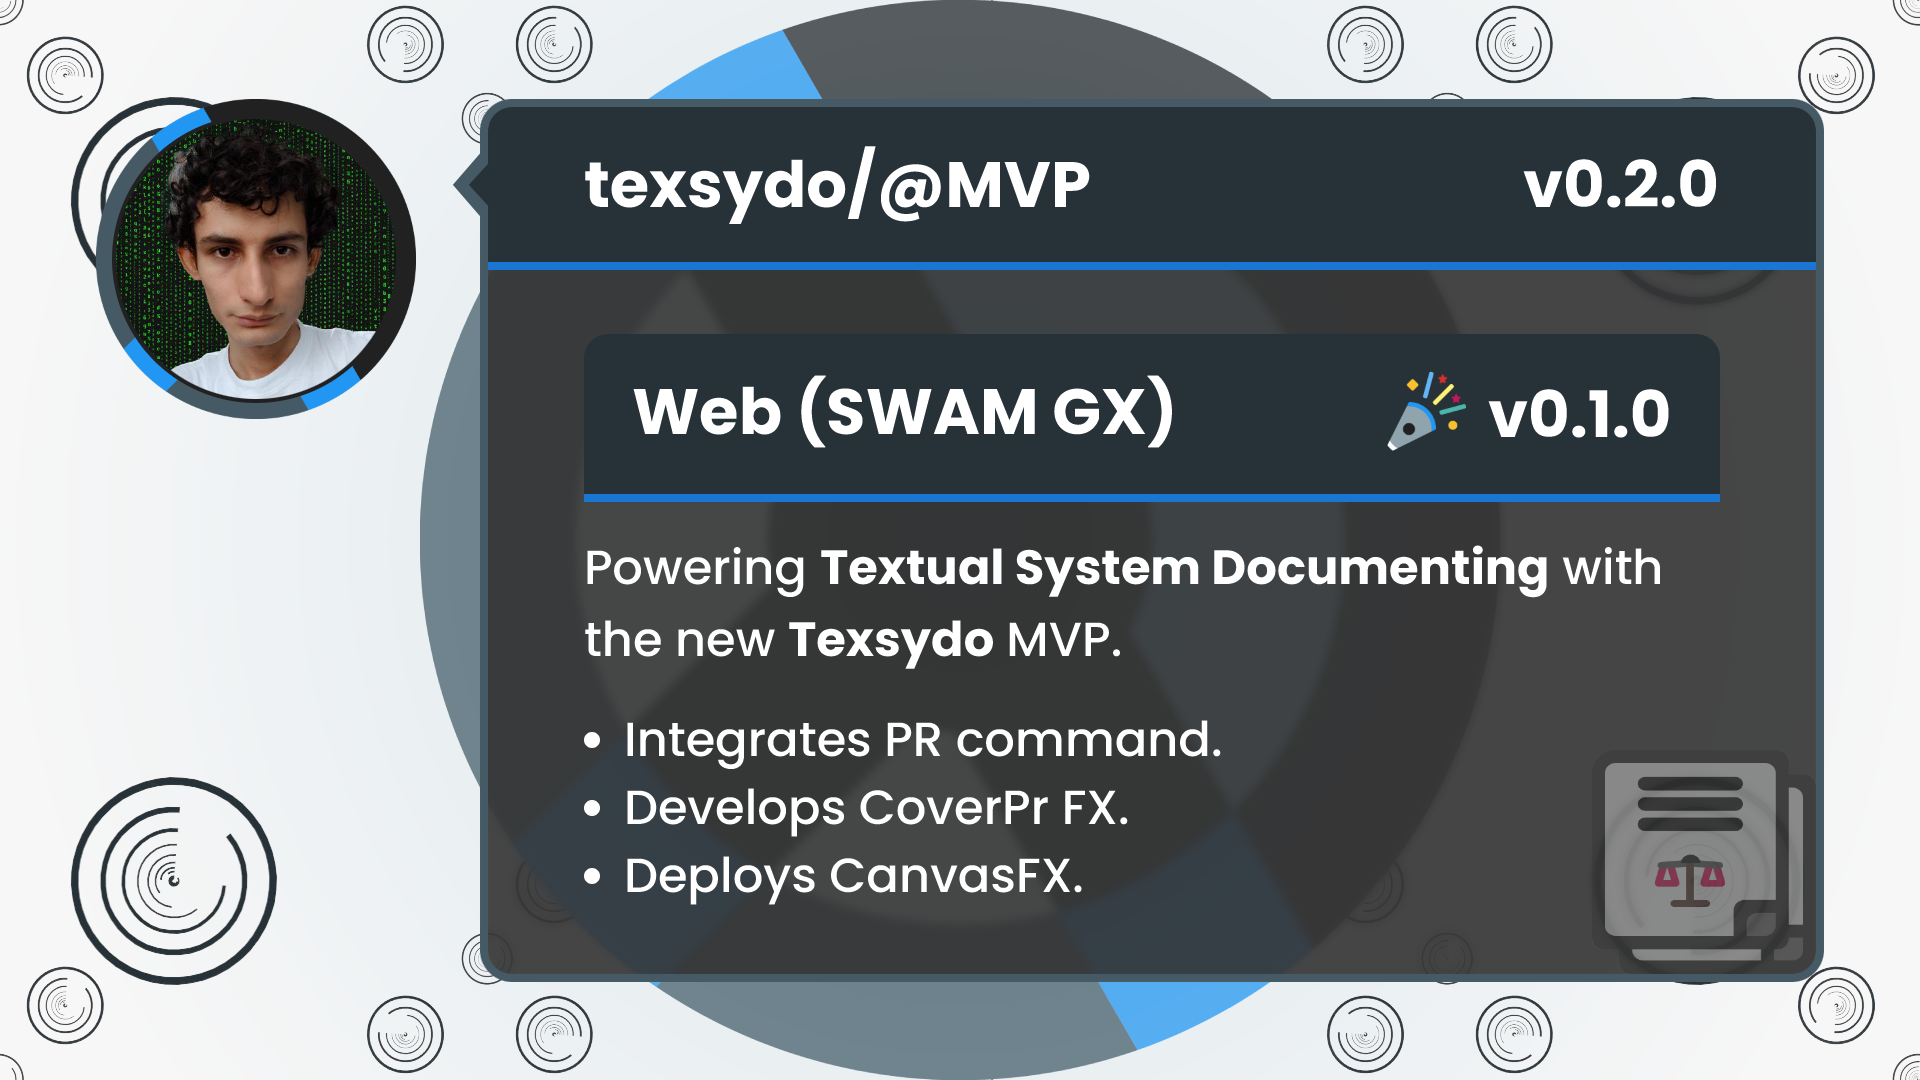
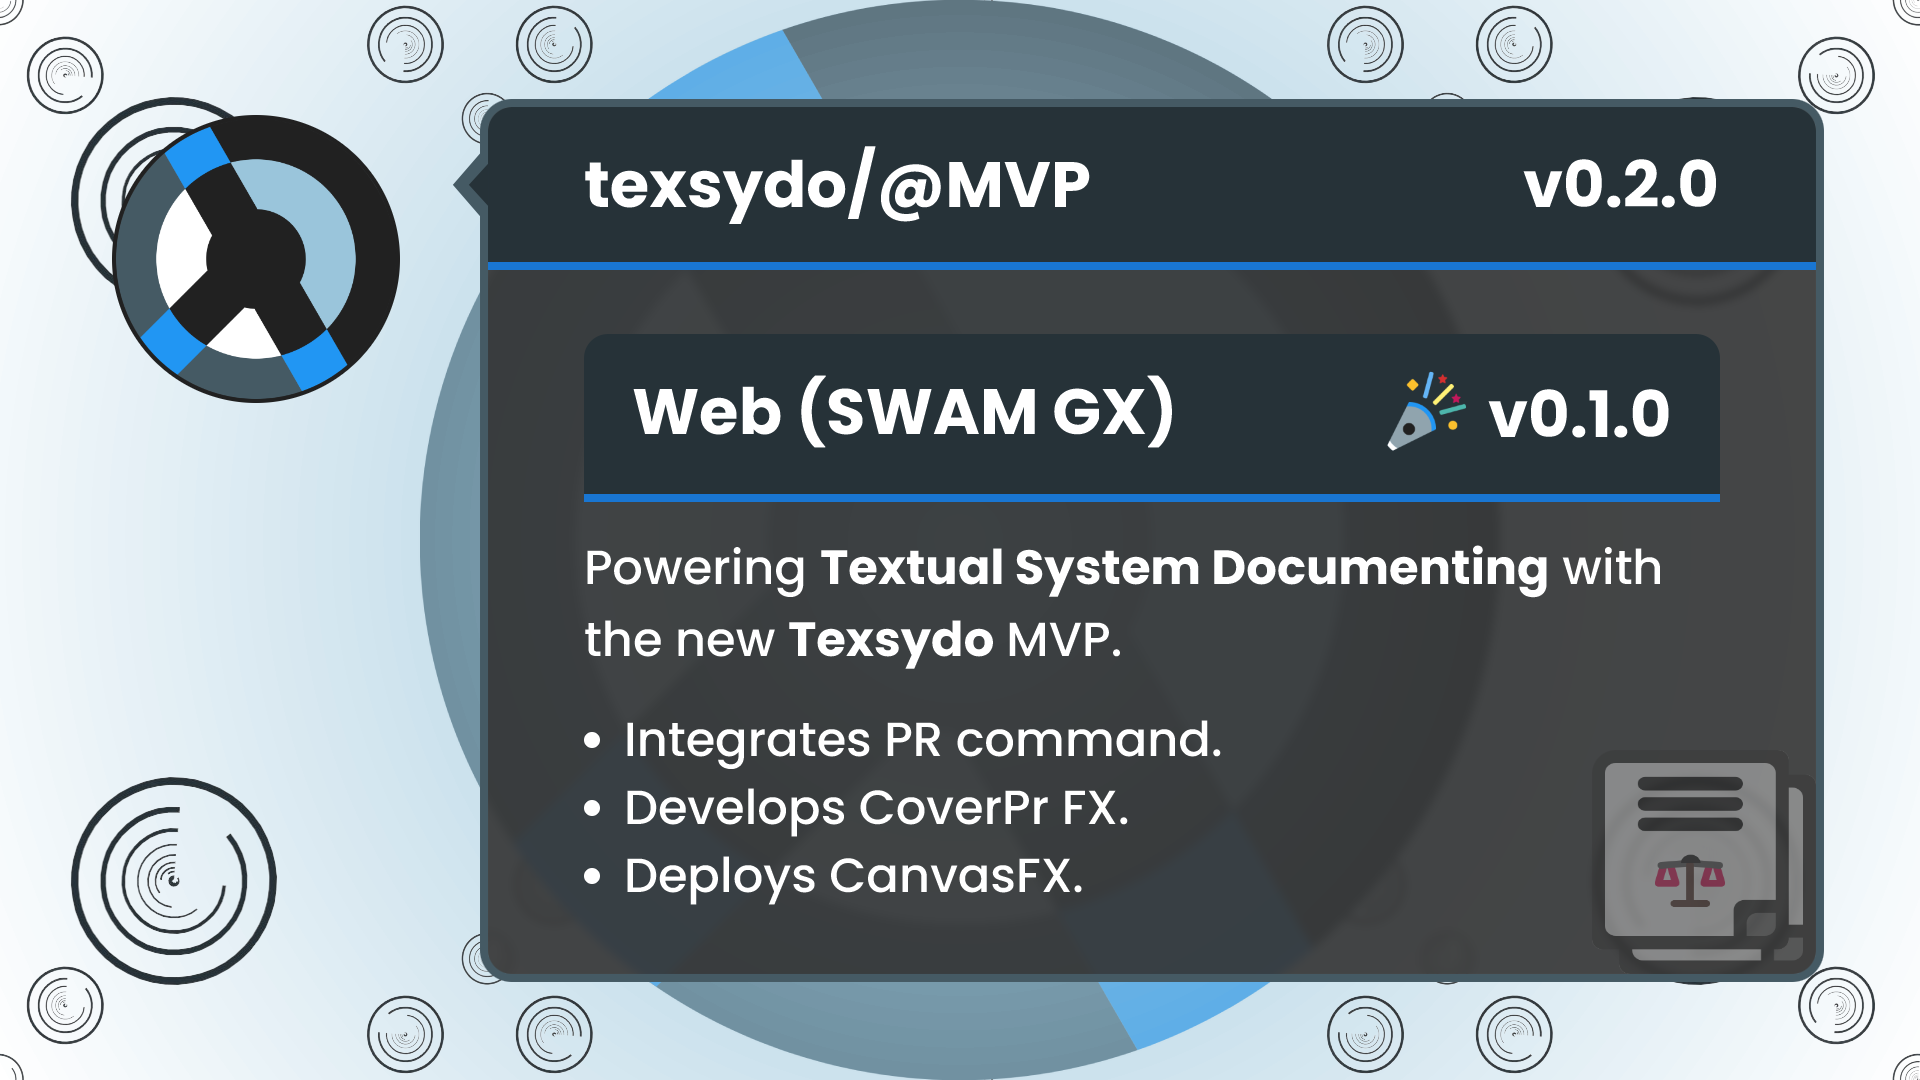
.

diff --git a/canvasfx/src/main/kotlin/engineer/mathsoftware/canvasfx/drawing/PrCover.kt b/canvasfx/src/main/kotlin/engineer/mathsoftware/canvasfx/drawing/PrCover.kt
@@ -5,6 +5,7 @@ import engineer.mathsoftware.canvasfx.printError
 import engineer.mathsoftware.canvasfx.remToPx
 import engineer.mathsoftware.canvasfx.resPath
 import javafx.beans.property.SimpleObjectProperty
+import javafx.embed.swing.SwingFXUtils
 import javafx.geometry.Insets
 import javafx.geometry.Pos
 import javafx.scene.Group
@@ -15,8 +16,14 @@ import javafx.scene.image.Image
 import javafx.scene.image.ImageView
 import javafx.scene.layout.*
 import javafx.scene.paint.Color
+import javafx.scene.paint.CycleMethod
+import javafx.scene.paint.RadialGradient
+import javafx.scene.paint.Stop
 import javafx.scene.shape.*
 import javafx.scene.text.Font
+import java.io.File
+import javax.imageio.ImageIO
+import kotlin.math.pow
 import kotlin.math.sqrt
 
 val fontSizePx = 32.0
@@ -28,6 +35,7 @@ val accentColorBlue = Color.web("#1976D2")
 val accentColor = Color.web("#455A64")
 val backgroundColor = Color.web("#333")
 val backdropBlurBackground = BackdropBlurBackground()
+val gradientCenterColor = Color.web("#9ac5db")
 
 data class PrCover(
     val commentBox: CommentBox,
@@ -88,7 +96,7 @@ fun prCover(
 
     children.addAll(
         StackPane().apply {
-            background = localImageBackground("mswe-radial.png")
+            background = createMsweRadialBackground()
 
             backdropBlurBackground.addSource(this)
         },
@@ -123,7 +131,7 @@ fun prCover(
             children.addAll(
                 HBox().apply {
                     children.addAll(
-                        profilePhoto(profilePhotoSrc),
+                        profilePhoto(profilePhotoSrc, bg = release == null),
                         createCommentBox(commentBox, release)
                     )
                 }
@@ -153,30 +161,34 @@ fun releaseCover(releaseCover: ReleaseCover): Pane = with(releaseCover) {
     prCover(prCover, release)
 }
 
-fun profilePhoto(profileSrc: String): StackPane = StackPane().apply {
-    prefWidth = toPx(10.0)
-    prefHeight = toPx(10.0)
-    maxWidth = toPx(10.0)
-    maxHeight = toPx(10.0)
-    padding = Insets(toPx(0.5))
-    background = localImageBackground("mswe.png")
+fun profilePhoto(profileSrc: String, bg: Boolean = true): StackPane =
+    StackPane().apply {
+        prefWidth = toPx(10.0)
+        prefHeight = toPx(10.0)
+        maxWidth = toPx(10.0)
+        maxHeight = toPx(10.0)
+        padding = Insets(toPx(0.5))
 
-    children.addAll(
-        Circle().apply {
-            radius = toPx(4.5)
-            fill = Color.web("#212121")
-        },
-        ImageView().apply {
-            fitWidth = toPx(8.75)
-            fitHeight = toPx(8.75)
-            image = Image(profileSrc)
-            clip = Rectangle(fitWidth, fitHeight).apply {
-                arcWidth = toPx(fitWidth / 2)
-                arcHeight = toPx(fitHeight / 2)
-            }
+        if (bg) {
+            background = localImageBackground("mswe.png")
         }
-    )
-}
+
+        children.addAll(
+            Circle().apply {
+                radius = toPx(4.5)
+                fill = Color.web("#212121")
+            },
+            ImageView().apply {
+                fitWidth = toPx(8.75)
+                fitHeight = toPx(8.75)
+                image = Image(profileSrc)
+                clip = Rectangle(fitWidth, fitHeight).apply {
+                    arcWidth = toPx(fitWidth / 2)
+                    arcHeight = toPx(fitHeight / 2)
+                }
+            }
+        )
+    }
 
 fun createCommentBox(commentBox: CommentBox, release: Release?): StackPane {
     val commentBoxPane = commentBox.commentBox(release)
@@ -570,6 +582,74 @@ class BackdropBlurBackground {
                 )
             )
     }
+}
+
+fun createMsweRadialBackground(): Background {
+    val bgWidth = 1920.0
+    val bgHeight = 1080.0
+    val gradientRadius = sqrt((bgWidth.pow(2.0) + bgHeight.pow(2.0)) / 4)
+    val group = Group().apply {
+        children.addAll(
+            Rectangle().apply {
+                width = bgWidth
+                height = bgHeight
+                fill = Color.WHITE
+            },
+            ImageView().apply {
+                fitWidth = bgHeight
+                fitHeight = bgHeight
+                x = (bgWidth - bgHeight) / 2
+                image = Image(resPath("mswe-1080.png"))
+            },
+            Circle().apply {
+                radius = gradientRadius
+                fill = RadialGradient(
+                    0.0,
+                    0.0,
+                    0.5,
+                    0.5,
+                    1.0,
+                    true,
+                    CycleMethod.NO_CYCLE,
+                    Stop(0.0, gradientCenterColor),
+                    Stop(0.5, Color.TRANSPARENT)
+                )
+                clip = Rectangle(bgWidth, bgHeight)
+                centerX = bgWidth / 2
+                centerY = bgHeight / 2
+            }
+        )
+    }
+
+    val writableImage = group.snapshot(
+        SnapshotParameters().apply {
+            fill = Color.TRANSPARENT
+        },
+        null
+    )
+
+    ImageIO.write(
+        SwingFXUtils.fromFXImage(writableImage, null),
+        "png",
+        File("image.png")
+    )
+
+    return Background(
+        BackgroundImage(
+            writableImage,
+            BackgroundRepeat.NO_REPEAT,
+            BackgroundRepeat.NO_REPEAT,
+            BackgroundPosition.CENTER,
+            BackgroundSize(
+                100.0,
+                100.0,
+                true,
+                true,
+                true,
+                false
+            )
+        )
+    )
 }
 
 fun textCss(sizeRem: Double = 1.0): String = """

diff --git a/ops/src/test/kotlin/fx/FxKtTest.kt b/ops/src/test/kotlin/fx/FxKtTest.kt
@@ -1,0 +1,5 @@
+package fx
+
+import org.junit.jupiter.api.Assertions.*
+
+class FxKtTest
